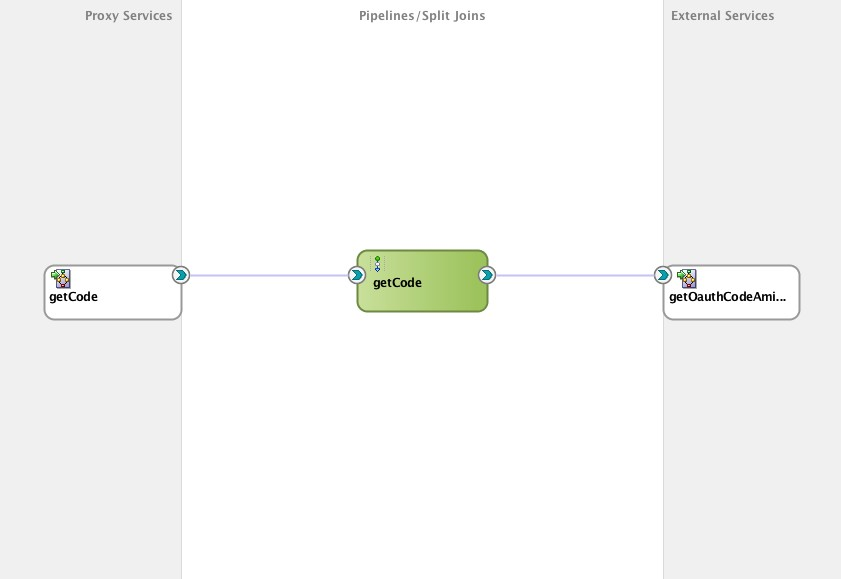
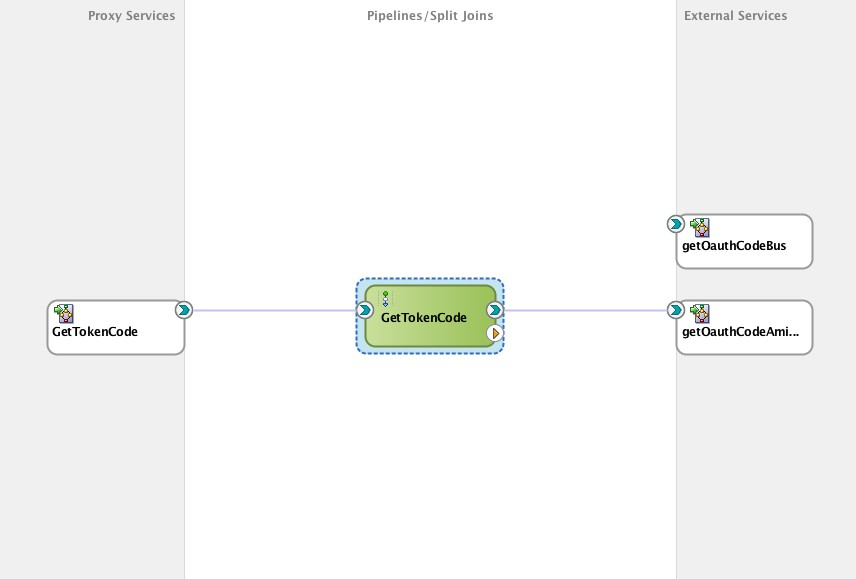
Commit 17/07
********Ajuste Projeto Oauth2

diff --git a/SimulaBarramentoAmil/controllers/ite003.js b/SimulaBarramentoAmil/controllers/ite003.js
@@ -1,8 +1,6 @@
-
-
 module.exports = function(app) {
 
-        app.post('/ite003/validaCPF', function(req, res) {
+        app.get('/venda-online/api/corretor/:cpf/validacep/:cep', function(req, res) {
 
             var response = {
                 ite003Response:{
@@ -10,23 +8,28 @@ module.exports = function(app) {
                 }
             };
 
-            console.log('Request ITE - 003 : ' + JSON.stringify(req.body));
-            console.log(JSON.stringify(req.body));
+            console.log(req.headers);
+            console.log('Request ITE - 003 : ' + JSON.stringify(req.params));
 
-            if(req.body.ite003Request.cep == undefined){
-                response.ite003Response.codResponse = "ITE003-0001";
-                response.ite003Response.descCodResponse = "Mensagem Invalida";
-                console.log("cep invalido *******");
-            }else if (req.body.ite003Request.cpf == undefined) {
-                response.ite003Response.codResponse = "ITE003-0001";
-                response.ite003Response.descCodResponse = "Mensagem Invalida";
-                console.log("cpf invalido *******");
+            if(req.header('authorization') === "Bearer 104bf8d3-d4c1-461c-9139-c565635010a3") {
+
+                if (req.params.cep == undefined) {
+                    response.ite003Response.codResponse = "ITE003-0001";
+                    response.ite003Response.descCodResponse = "Mensagem Invalida";
+                    console.log("cep invalido *******");
+                } else if (req.params.cpf == undefined) {
+                    response.ite003Response.codResponse = "ITE003-0001";
+                    response.ite003Response.descCodResponse = "Mensagem Invalida";
+                    console.log("cpf invalido *******");
+                } else {
+                    response.ite003Response.nomeCorretor = "Teste Amil"
+                    response.ite003Response.codResponse = "ITE003-0000";
+                    response.ite003Response.descCodResponse = "Mensagem Valida";
+                }
+                res.send(response);
             }else{
-                response.ite003Response.nomeCorretor = "Teste Amil"
-                response.ite003Response.codResponse = "ITE003-0000";
-                response.ite003Response.descCodResponse = "Mensagem Valida";
+                res.send(response);
             }
 
-            res.send(response);
         });
 };

diff --git a/SimulaBarramentoAmil/controllers/ite019.js b/SimulaBarramentoAmil/controllers/ite019.js
@@ -1,32 +1,32 @@
 /**
  * Created by lrafael on 10/07/17.
  */
-module.exports = function(app) {
+    module.exports = function(app) {
 
-    app.post('/ite018/dadosEndereco', function(req, res) {
+        app.post('/ite018/dadosEndereco', function(req, res) {
 
-        var response = {
-            ite018Response:{
-                codResponse: "ITE018-0000"
+            var response = {
+                ite018Response:{
+                    codResponse: "ITE018-0000"
+                }
+            };
+
+            console.log('Request ITE - 018 : ' + JSON.stringify(req.body));
+            console.log(JSON.stringify(req.body));
+
+            if(req.body.ite018Request.cep == undefined){
+                response.ite018Response.codResponse = "ITE018-0001";
+                response.ite018Response.descCodResponse = "Mensagem Invalida";
+                console.log("cepf invalido *******");
+            }else{
+                response.ite018Response.rua = "Rua Teste";
+                response.ite018Response.bairro = "Bairro Teste";
+                response.ite018Response.cidade = "Cidade Teste";
+                response.ite018Response.estado = "SP";
+                response.ite018Response.codResponse = "ITE018-0000";
+                response.ite018Response.descCodResponse = "Mensagem Valida";
             }
-        };
-
-        console.log('Request ITE - 018 : ' + JSON.stringify(req.body));
-        console.log(JSON.stringify(req.body));
-
-        if(req.body.ite018Request.cep == undefined){
-            response.ite018Response.codResponse = "ITE018-0001";
-            response.ite018Response.descCodResponse = "Mensagem Invalida";
-            console.log("cepf invalido *******");
-        }else{
-            response.ite018Response.rua = "Rua Teste";
-            response.ite018Response.bairro = "Bairro Teste";
-            response.ite018Response.cidade = "Cidade Teste";
-            response.ite018Response.estado = "SP";
-            response.ite018Response.codResponse = "ITE018-0000";
-            response.ite018Response.descCodResponse = "Mensagem Valida";
-        }
-        res.send(response);
-    });
-};
+            res.send(response);
+        });
+    };
 

diff --git a/SimulaBarramentoAmil/controllers/SimulaToken.js b/SimulaBarramentoAmil/controllers/SimulaToken.js
@@ -1,0 +1,31 @@
+/**
+ * Created by lrafael on 17/07/17.
+ */
+module.exports = function(app) {
+
+    app.post('/auth/oauth/v2/token', function(req, res) {
+
+        var responseOk = {
+            "access_token": "104bf8d3-d4c1-461c-9139-c565635010a3",
+            "token_type": "Bearer",
+            "expires_in": 3600,
+            "scope": "oraclecommerce"
+        }
+
+        var responseFalse = {
+            "codResponse": "Authorization Invalid"
+        }
+
+        console.log(req.headers);
+        console.log(req.body);
+
+        if(req.header('authorization') === "Basic ZGRlODU1MWUtMTFmYy00MTRiLWJmZmUtNzZmMmY0NGVmZDJjOjE5MDhkNDBiLTRkMmYtNGM2NS1hOWMzLTBlOGVmMTA2M2ZmZg=='" && req.body.scope === "oraclecommerce" && req.body.grant_type === "client_credentials" ) {
+            console.log(responseOk);
+            res.send(responseOk);
+        }else{
+            console.log(responseFalse);
+            res.send(responseFalse);
+        }
+    });
+};
+

diff --git a/SimulaBarramentoAmil/app.js b/SimulaBarramentoAmil/app.js
@@ -13,6 +13,7 @@ var ite004 = require('./controllers/ite004');
 var ite012 = require('./controllers/ite012');
 var ite007 = require('./controllers/ite007');
 var ite019 = require('./controllers/ite019');
+var simulaToken = require('./controllers/SimulaToken');
 
 
 var port = process.env.PORT || 3000;
@@ -38,7 +39,7 @@ ite004(app);
 ite012(app);
 ite007(app);
 ite019(app);
-
+simulaToken(app);
 
 app.listen(port);
 
